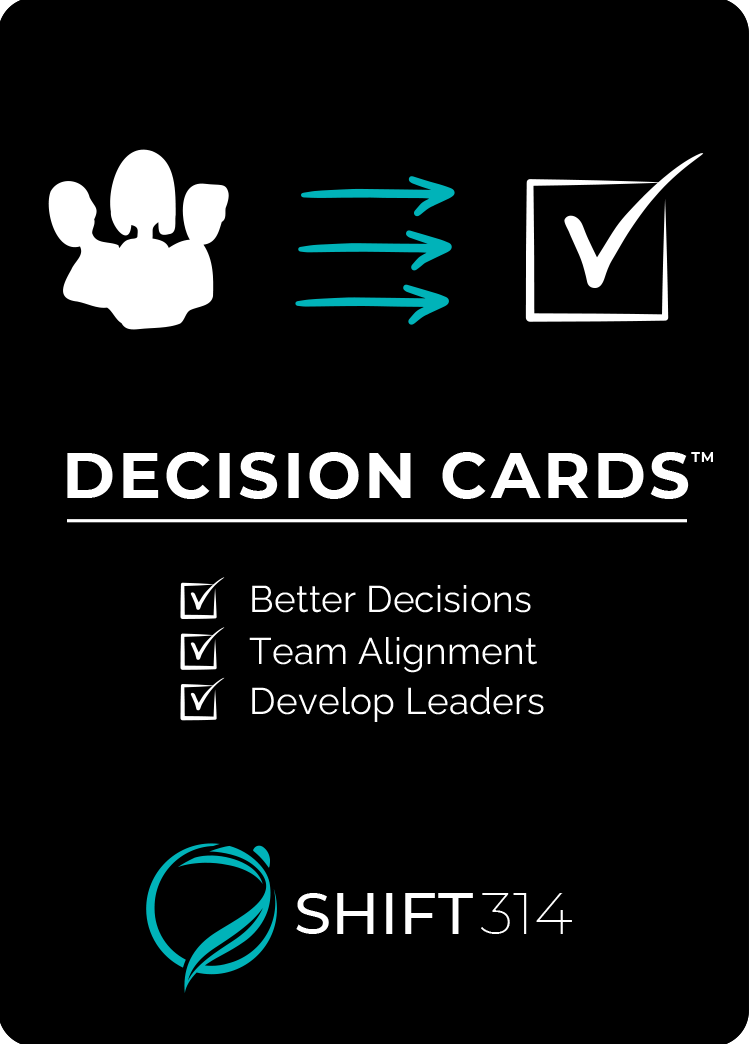
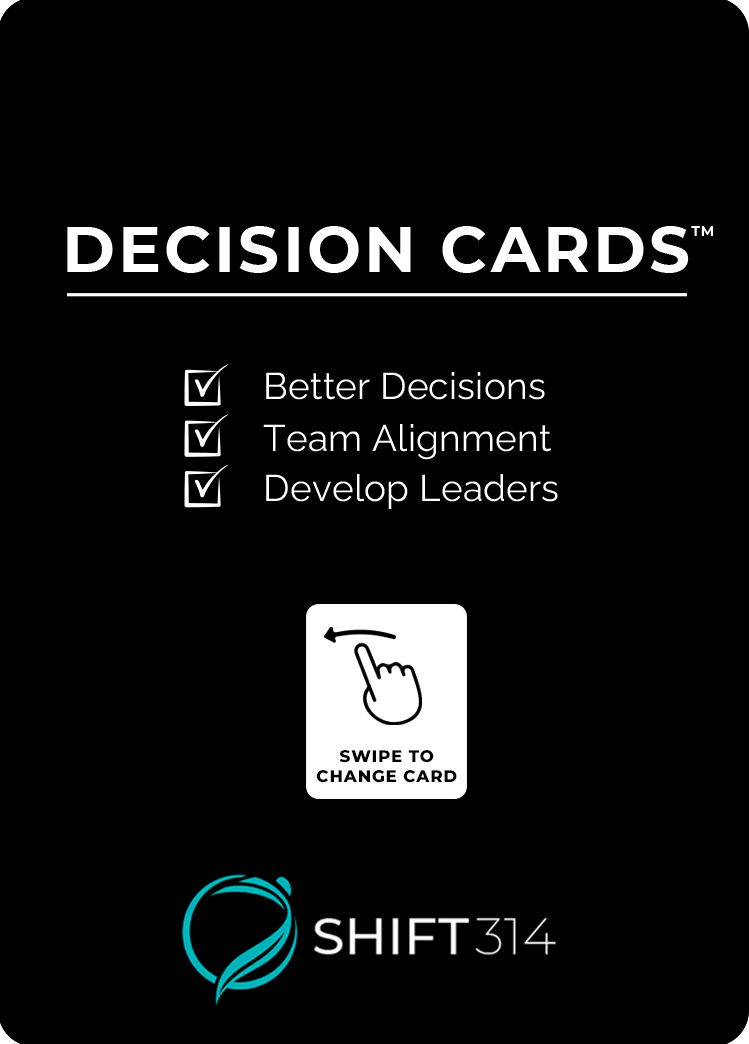
New cover card image

diff --git a/docs/js/main.js b/docs/js/main.js
@@ -34,17 +34,17 @@ document.onreadystatechange = function () {
           inline: "nearest",
         });
       }
+      setTimeout(() => {
+        const cardInstructions = document.getElementById("card-cover");
+        if (cardInstructions !== null) {
+          cardInstructions.scrollIntoView({
+            behavior: "smooth",
+            block: "end",
+            inline: "nearest",
+          });
+        }
+      }, 2000);
     }, 1000);
-    setTimeout(() => {
-      const cardInstructions = document.getElementById("card-instructions");
-      if (cardInstructions !== null) {
-        cardInstructions.scrollIntoView({
-          behavior: "smooth",
-          block: "end",
-          inline: "nearest",
-        });
-      }
-    }, 2000);
     // window.scrollBy({
     //   top: 0,
     //   left: window.innerWidth * 3,

diff --git a/js/main.js b/js/main.js
@@ -34,17 +34,17 @@ document.onreadystatechange = function () {
           inline: "nearest",
         });
       }
+      setTimeout(() => {
+        const cardInstructions = document.getElementById("card-cover");
+        if (cardInstructions !== null) {
+          cardInstructions.scrollIntoView({
+            behavior: "smooth",
+            block: "end",
+            inline: "nearest",
+          });
+        }
+      }, 2000);
     }, 1000);
-    setTimeout(() => {
-      const cardInstructions = document.getElementById("card-instructions");
-      if (cardInstructions !== null) {
-        cardInstructions.scrollIntoView({
-          behavior: "smooth",
-          block: "end",
-          inline: "nearest",
-        });
-      }
-    }, 2000);
     // window.scrollBy({
     //   top: 0,
     //   left: window.innerWidth * 3,

diff --git a/docs/js/Cards.js b/docs/js/Cards.js
@@ -117,12 +117,7 @@ const Counter = (props /*: Props */) /*: string */ => {
   return html`
     <div className="${"allCardsContainer"}">
       <div className="${"cardContainer1"}">
-        <img
-          class="${"pointer " + styles.pointer}"
-          src="./img/hand-pointing.png"
-          title=""
-        />
-        <div className="${"cardContainer2"}">
+        <div id="card-cover" className="${"cardContainer2"}">
           <div className="${"cardBox"}">
             <img
               class="${"cardImage"}"

diff --git a/js/Cards.js b/js/Cards.js
@@ -117,12 +117,7 @@ const Counter = (props /*: Props */) /*: string */ => {
   return html`
     <div className="${"allCardsContainer"}">
       <div className="${"cardContainer1"}">
-        <img
-          class="${"pointer " + styles.pointer}"
-          src="./img/hand-pointing.png"
-          title=""
-        />
-        <div className="${"cardContainer2"}">
+        <div id="card-cover" className="${"cardContainer2"}">
           <div className="${"cardBox"}">
             <img
               class="${"cardImage"}"

diff --git a/docs/index.html b/docs/index.html
@@ -64,8 +64,7 @@
 <body>
 	<div id="goodthing" data-goodthing><div class="allCardsContainer">
 	<div class="cardContainer1">
-		<img class="pointer pointer_dbseci" src="./img/hand-pointing.png" title />
-		<div class="cardContainer2">
+		<div id="card-cover" class="cardContainer2">
 			<div class="cardBox">
 				<img class="cardImage" src="./img/000-1-cover.png" title="Cover" />
 			</div>
